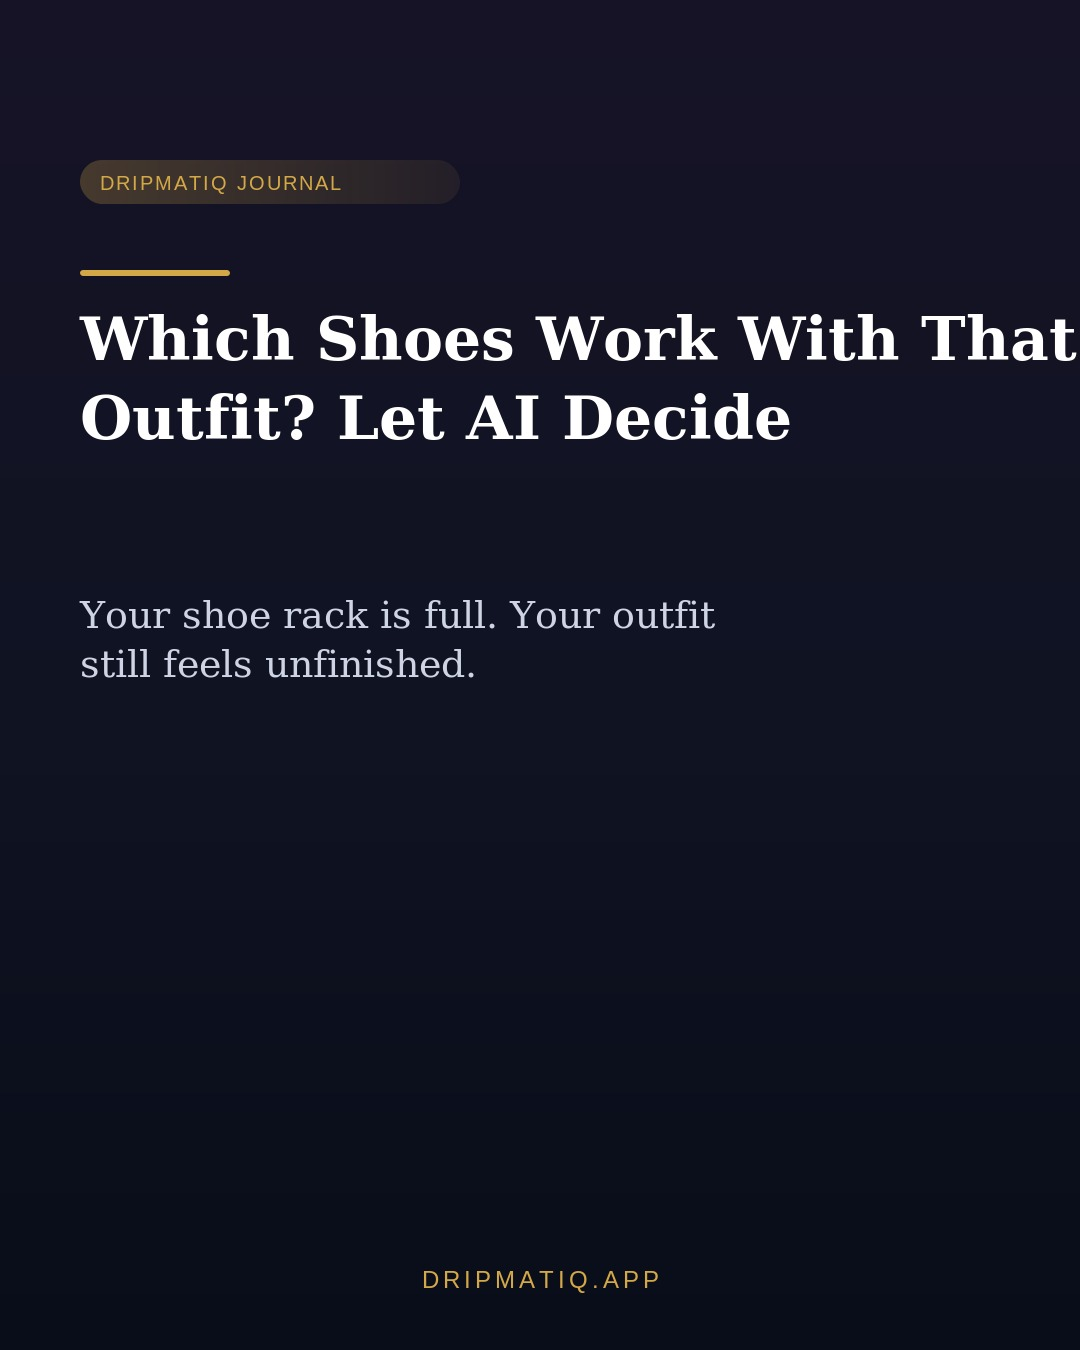
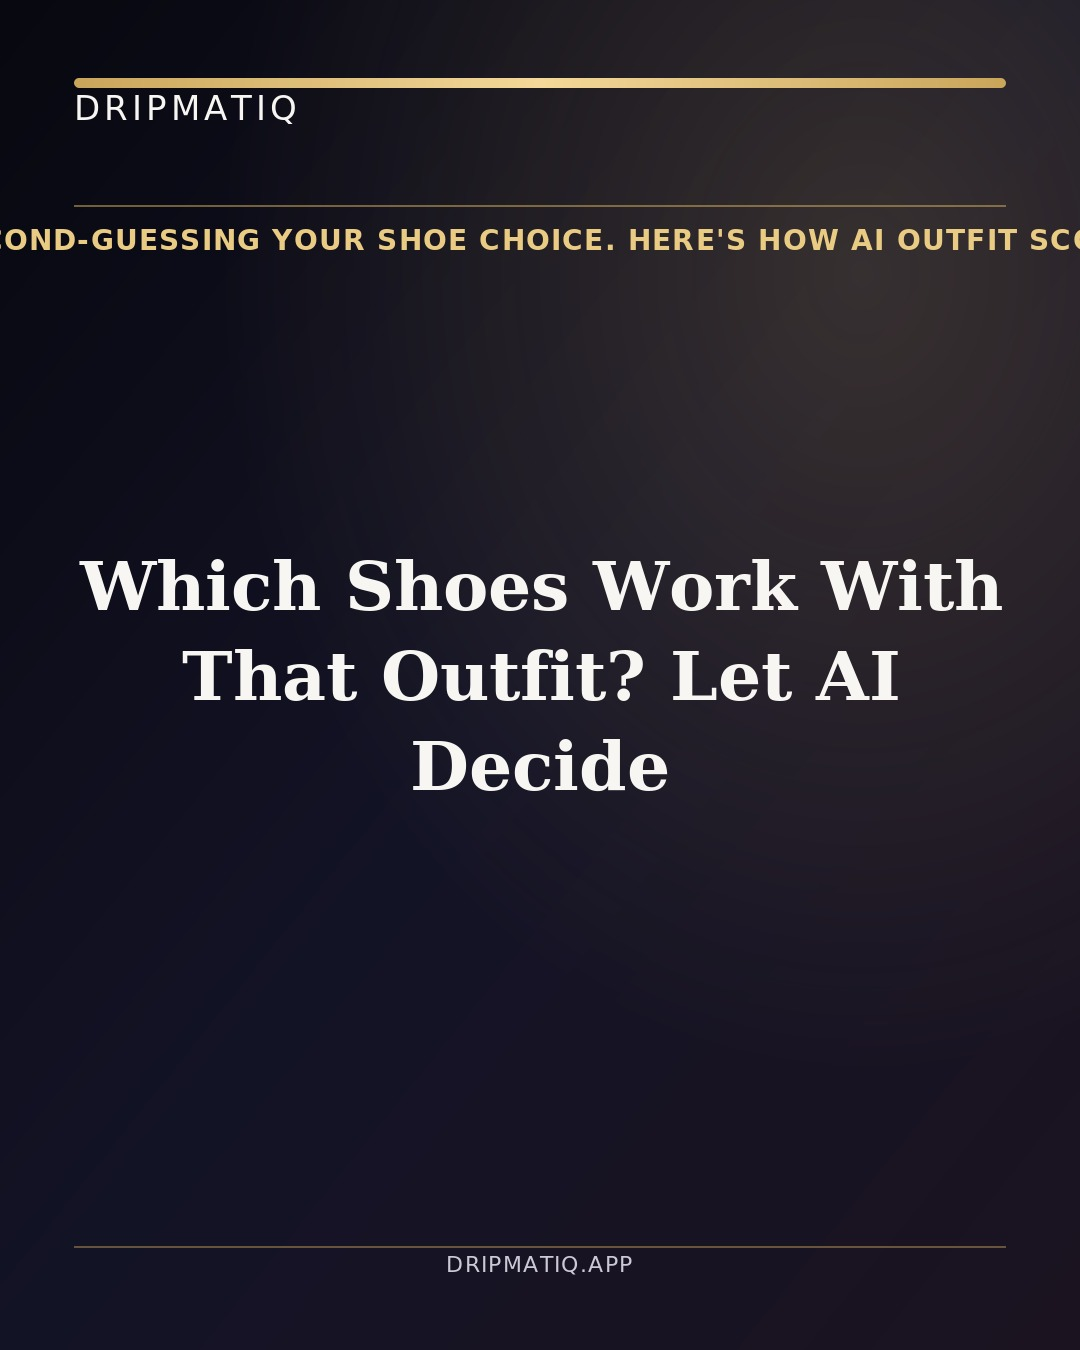
marketing(instagram): pack for ai-shoe-pairing

Changed region(s): [[0.0, 0.0311, 1.0, 0.5911], [0.3972, 0.9333, 0.6111, 0.9644]]

diff --git a/public/instagram/ai-shoe-pairing/caption.md b/public/instagram/ai-shoe-pairing/caption.md
@@ -1,7 +1,7 @@
-Your outfit is done—until the shoe choice kills the whole look.
+Your outfit can be perfect — and one wrong shoe can break the whole look.
 
-Most shoe indecision isn’t about “bad taste,” it’s too many variables hitting at once: silhouette, formality, and color temperature in 30 rushed seconds. That’s why we keep defaulting to the same safe pair, even when better options are already in our closet. The interesting part is what happens when you score combinations on context instead of vibes—you start wearing the pairs you forgot you loved. If you’ve ever stood by your shoe rack feeling 90% ready, this one is for you.
+Most styling advice says “just pick what looks good,” but shoe pairing is where great outfits often stall. This post breaks down the hidden variables—silhouette, formality, and color temperature—that decide whether a look feels intentional or off. Then it shows how AI outfit scoring helps you uncover better pairings from shoes you already own. If you’ve ever stood in front of your shoe rack running late, this one is for you.
 
 Full read → link in bio (dripmatiq.app/blog/ai-shoe-pairing?utm_source=instagram&utm_medium=social&utm_campaign=ai-shoe-pairing)
 
-#ootd #fashion #style #aifashion #wardrobe #stylinghacks #aistyling #shoes #outfitscoring #wardrobetips #shoepairing #whattowear
+#ootd #fashion #style #aifashion #wardrobe #stylinghacks #aistyling #shoes #outfitscoring #wardrobetips